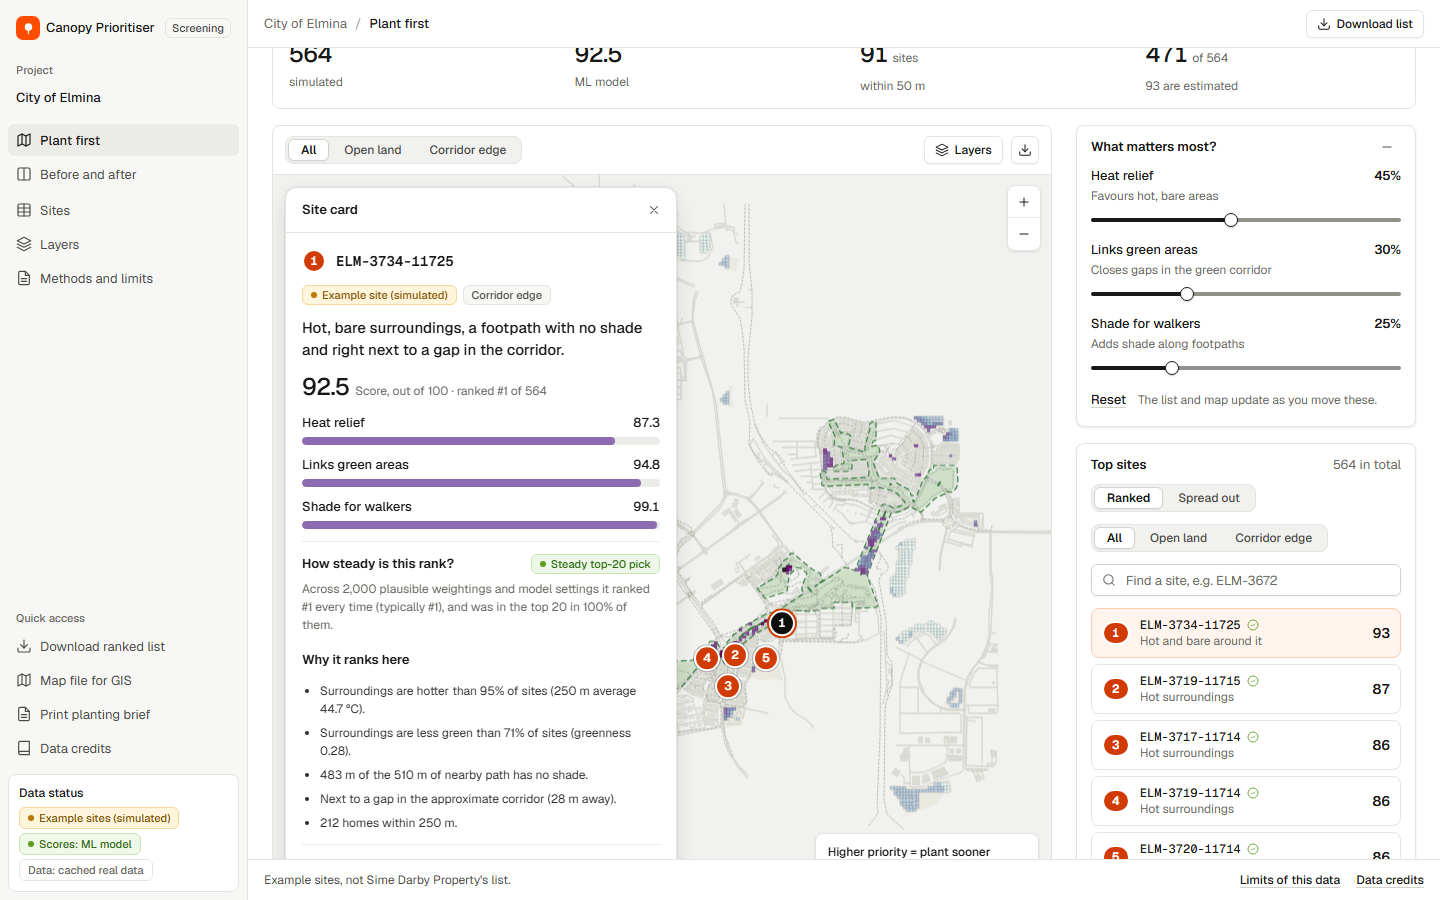
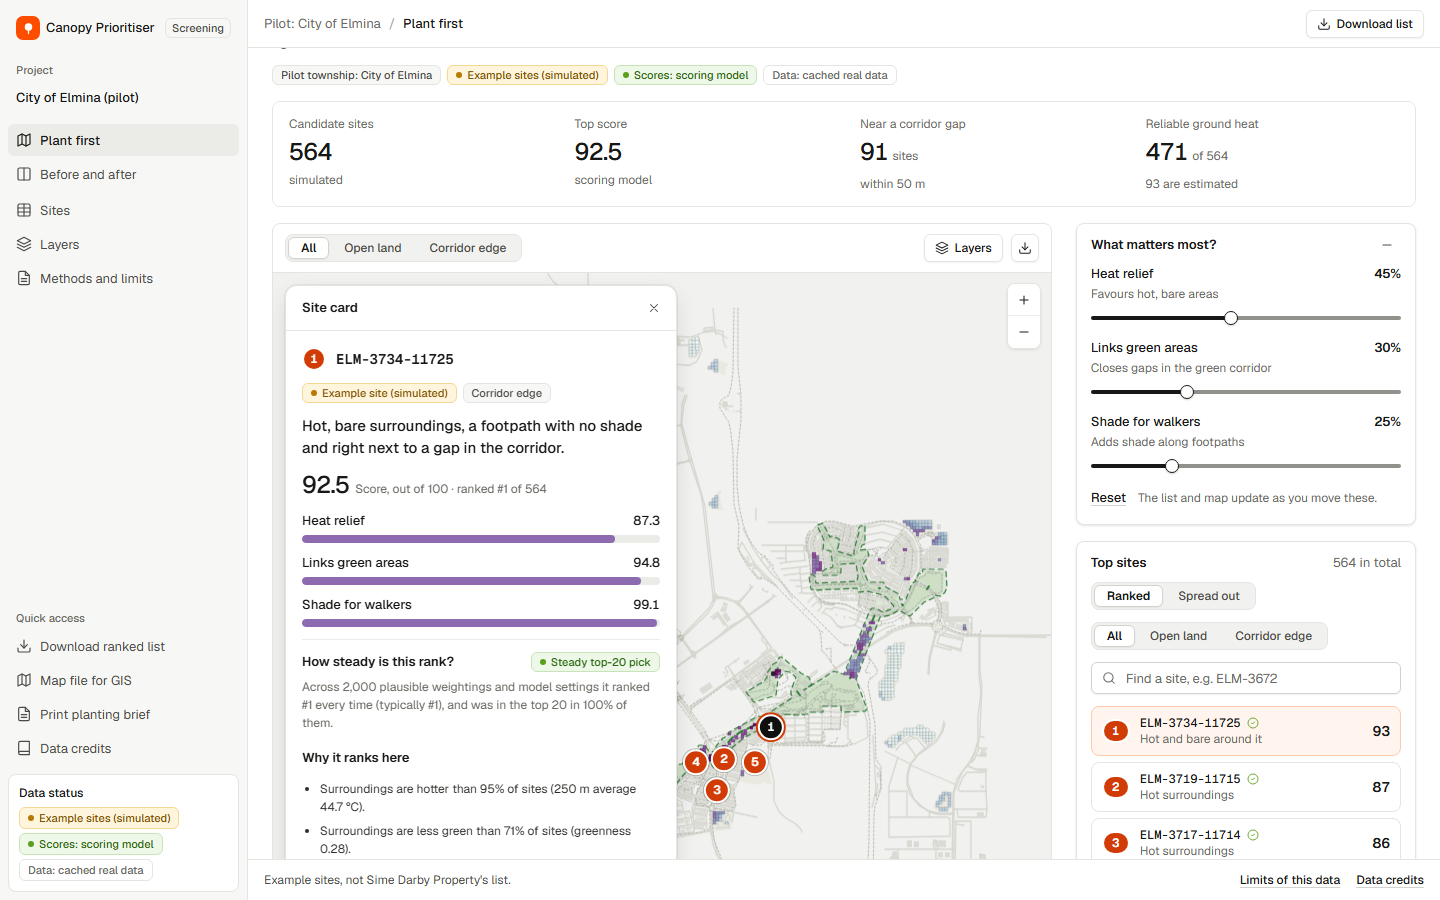
Revise the Figma deck as a pilot with expansion, refresh pitch screenshots and notes

diff --git a/docs/pitch/deck-outline.md b/docs/pitch/deck-outline.md
@@ -4,6 +4,8 @@ Written for: the team member building the slides in the official template (10 ma
 two-part pitch, **Mechanism** (the solution, how it works, who benefits, why it creates value for the township) and **Enabler** (how technology enables it, the user experience, implementation at township scale).
 Every number is from the repository (source in brackets). Screenshots are in `docs/pitch/screens/`. Words to avoid are listed at the end. Team and contact details are yours to fill in.
 
+**The live deck** is in Figma Slides (https://www.figma.com/slides/LySZlNsfHqvMU1nNwuGpjZ). On 22 October 2026 it was revised in place to match this outline and reframed as a **pilot**: the problem is stated at township scale (Sime Darby Property's townships, with City of Elmina as the pilot), the product is called Canopy Prioritiser, the kicker says Planet (one track only), outdated test counts and the word "defensible" are gone, the Impact slide shows reach instead of an unsourced time-saving claim, the Feasibility slide states the Earth Engine licence and that hosting is not yet verified, and the three screenshot placeholders hold current screenshots. Still to do by the team: the team-information placeholders (leader, members, emails, phone). The deck has 12 main slides plus an appendix, above the 10-main-slide limit in the template; that was left unchanged on request.
+
 **One thread through every slide:** *"Where should the next tree go first?"*
 
 | # | Template slide | Part | Official criterion it earns marks on |

diff --git a/docs/grading-self-assessment.md b/docs/grading-self-assessment.md
@@ -51,3 +51,7 @@ No ground truth (tree inventory, LiDAR or field plots) and no real Sime Darby si
 - 22 Oct 2026, after Batches 4 and 5 (theme fit and pitch package): Fit moves from about 12 up to about **13 to 14 of 15** (`docs/theme-fit.md`: Planet track, attributed developer priorities, the People angle said carefully).
   The deck outline, video script and submission checklist are written (`docs/pitch/`), but **the deck and the video themselves are not made and the live link is not deployed**, so Pitch Quality and Feasibility only gain once those exist.
   Estimated total now about **68 to 75**, rising to about 72 to 78 once the deck, video and live link are done.
+- 22 Oct 2026, after the audit-fix batches (pilot reframing, trade-off view, footpath greenness layer) and the Figma deck revision: Pitch quality and Innovation edge up (the deck is now written and reframed
+  as a pilot with expansion intent; the trade-off card answers "why these weights?"; the greenness layer makes the People angle visible). Estimated total about **70 to 76**; still capped by no ground truth, no real site list,
+  no live URL yet and an unrecorded video. Honest corrections made on the way: the app and deck say "scoring model" (no fitted parameters) instead of "ML model"; the footpath figure says "little tree cover (satellite)"
+  because about 95% of footpath samples fall below the threshold at 10 m.
